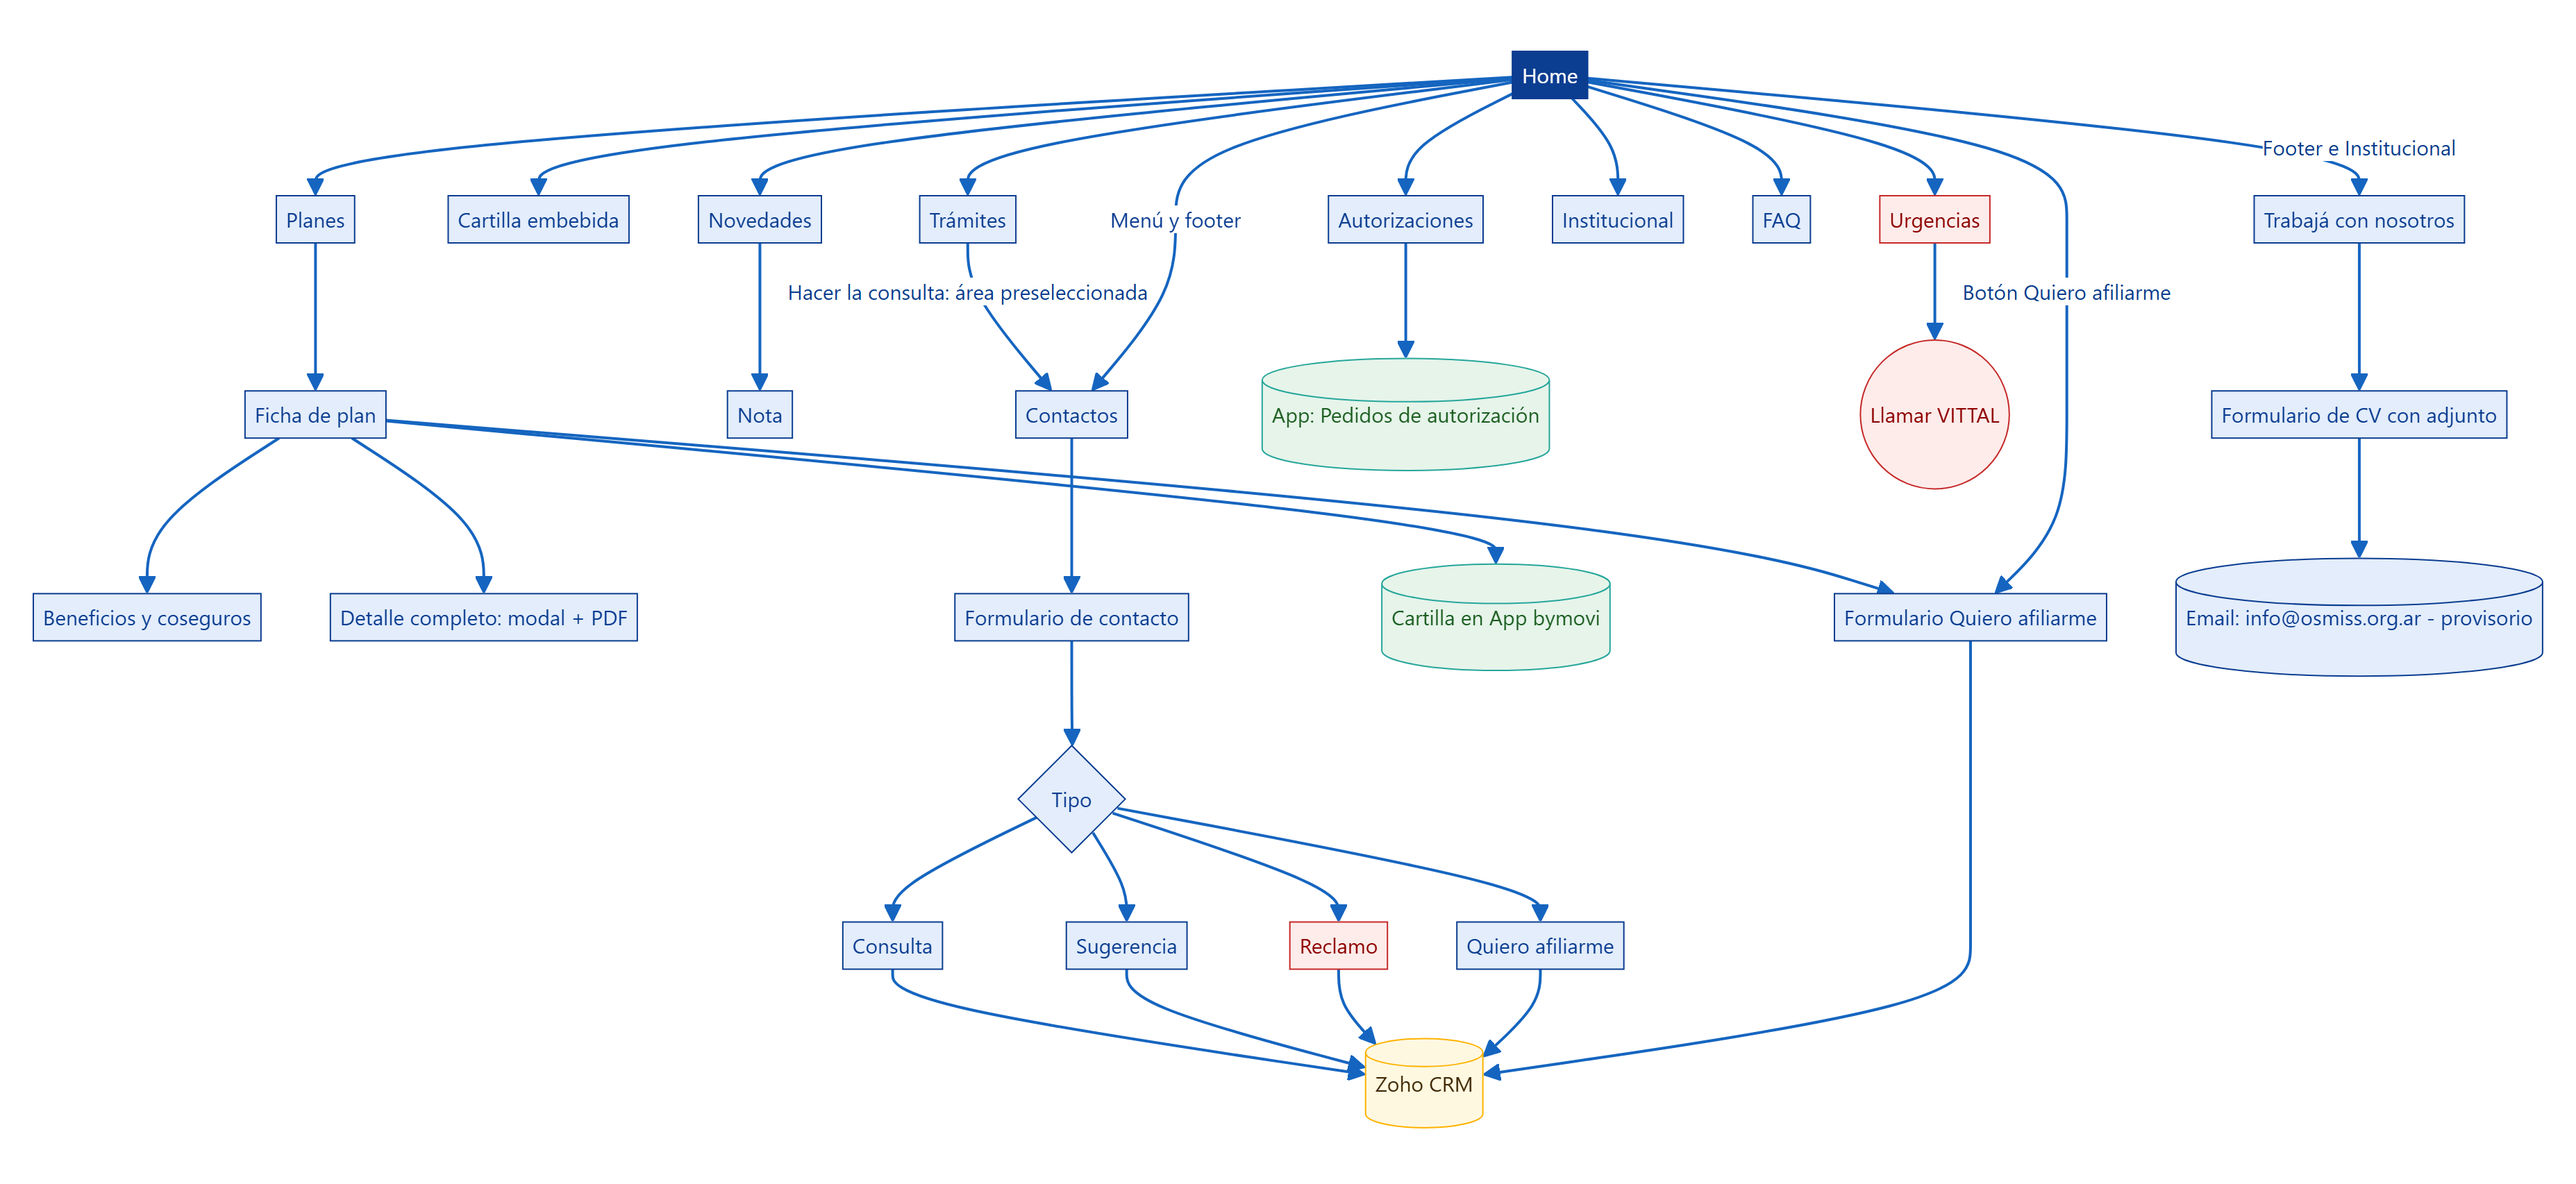
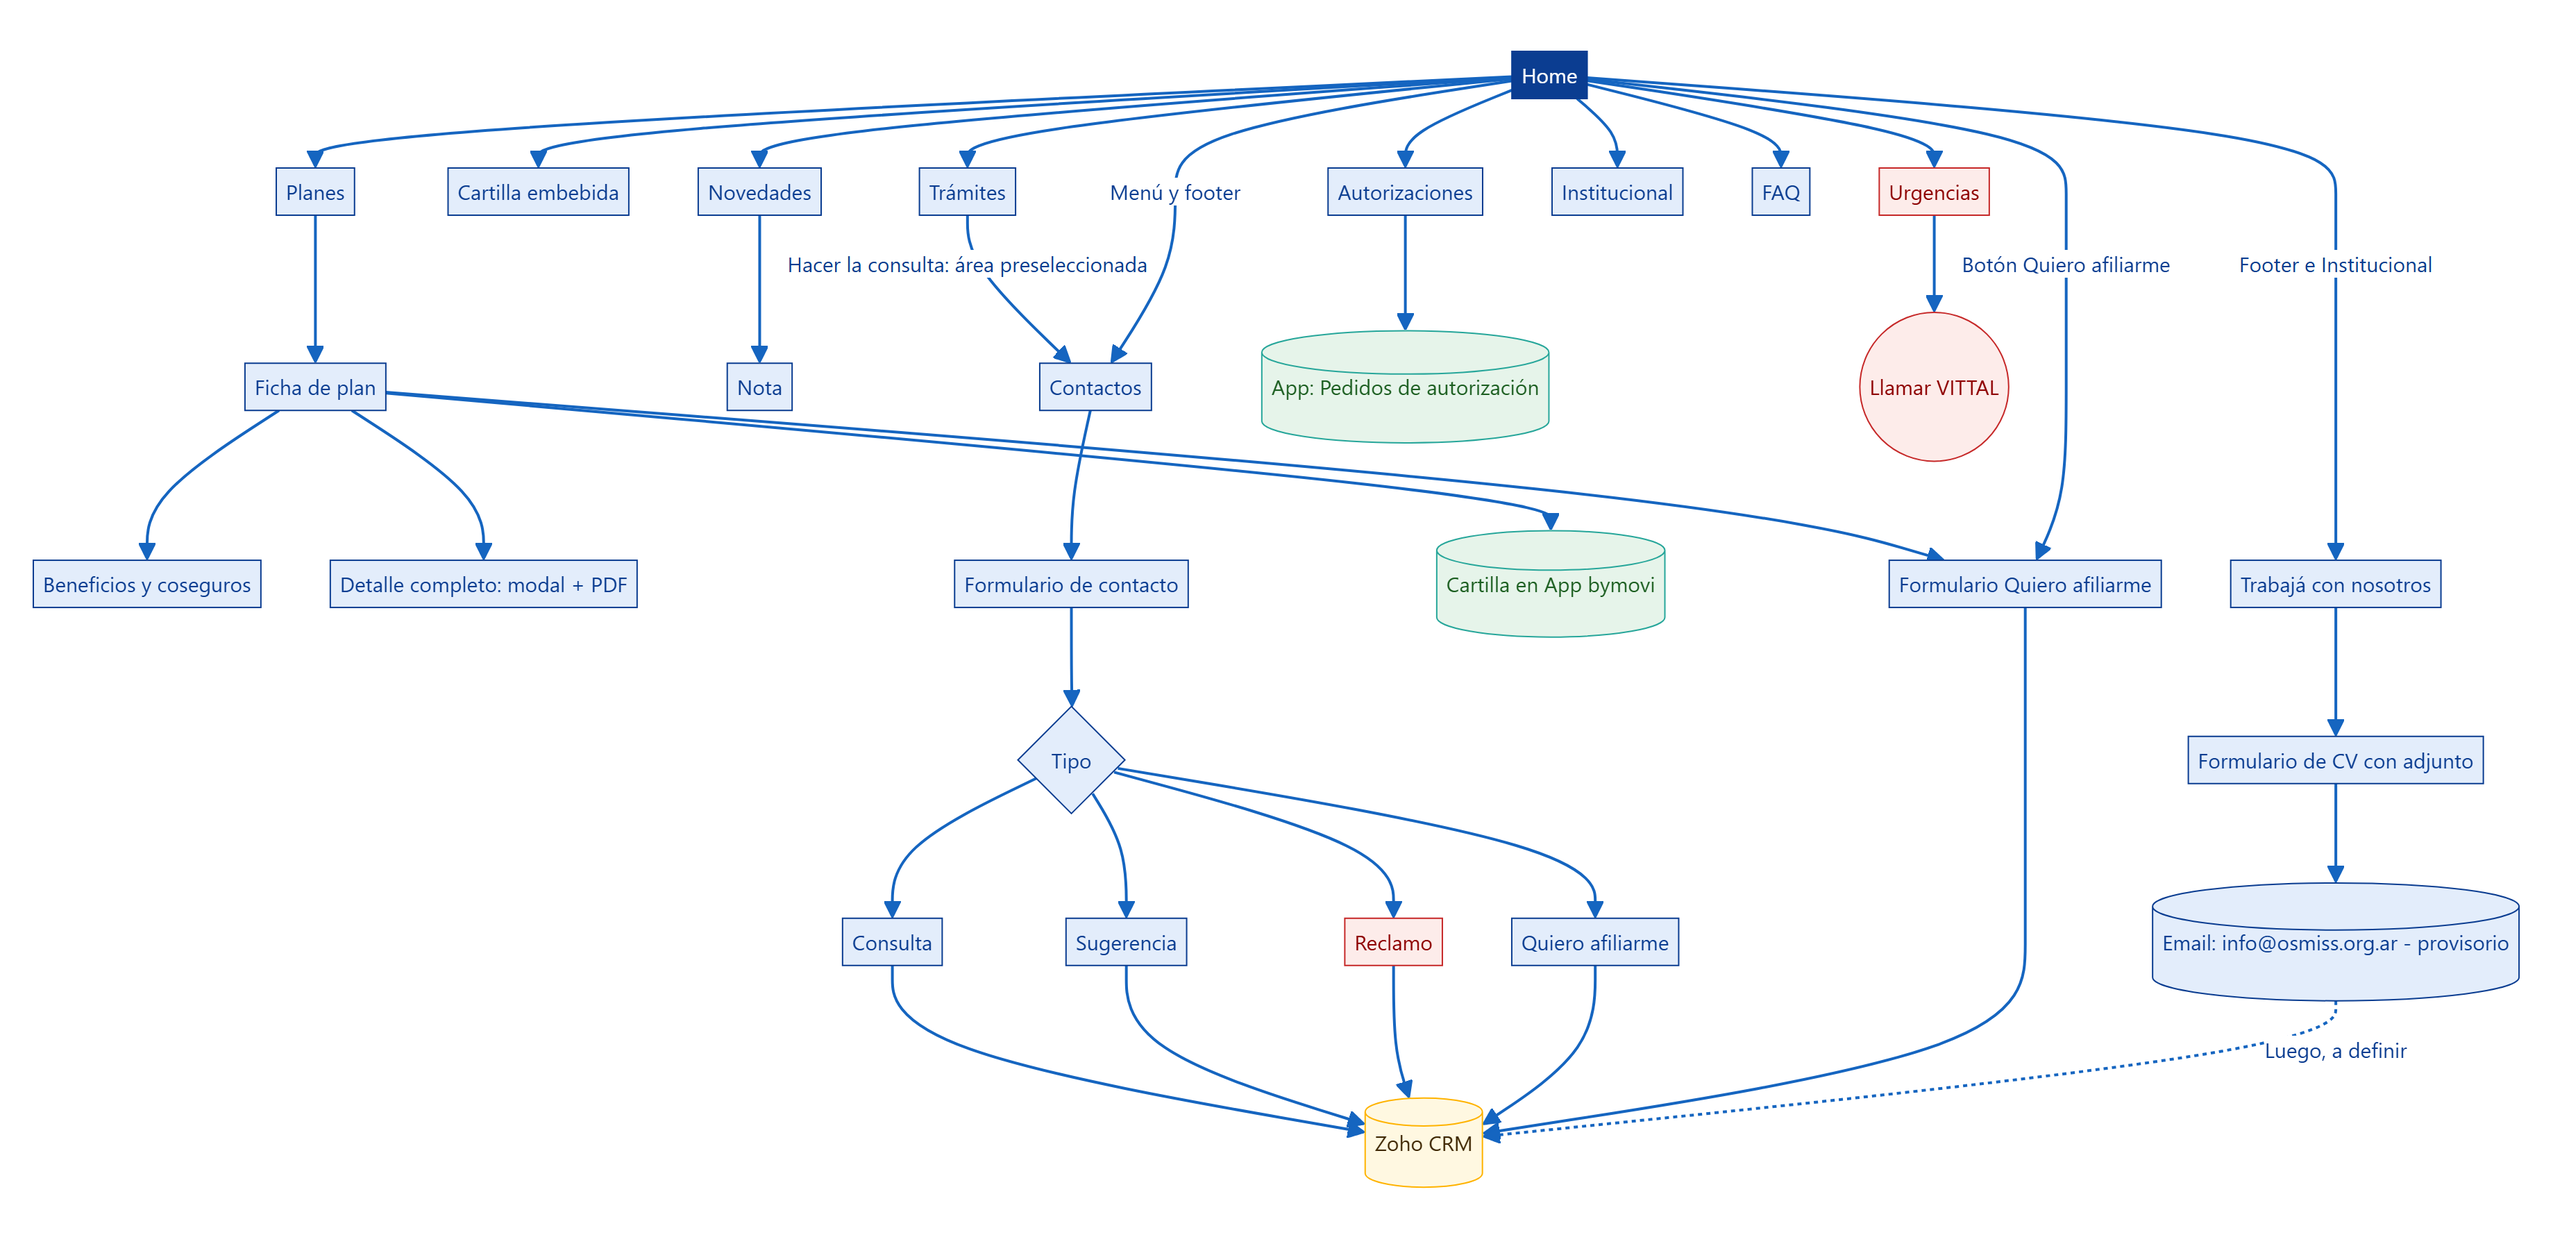
Mapa del sitio: los CV ingresan luego al CRM (a definir)
Recorrido formulario -> email -> Zoho CRM, con el paso al CRM pendiente de
definir (directo desde el formulario o desde el email específico de RRHH).

diff --git a/src/data.js b/src/data.js
@@ -48,6 +48,7 @@ export const DATA = {
     credencialUrl: "https://osmiss-app.bymovi.com/credencial-digital",
     // Trabajá con nosotros (#trabaja-con-nosotros): recepción de CV. El formulario se envía con
     // formulario: "cv", destinatario (email) y el archivo adjunto en el campo "cv" (multipart).
+    // Luego ingresa al CRM (a definir: directo desde el formulario o desde el email específico de RRHH).
     rrhh: {
       email: "info@osmiss.org.ar", // destino PROVISORIO de los CV: OSMISS va a definir un email específico
       maxMb: 5,

diff --git a/MAPA-DEL-SITIO.md b/MAPA-DEL-SITIO.md
@@ -87,6 +87,7 @@ flowchart TD
     H -->|Footer e Institucional| TR[Trabajá con nosotros]
     TR --> CV[Formulario de CV con adjunto]
     CV --> RH[(Email: info@osmiss.org.ar - provisorio)]
+    RH -.->|Luego, a definir| Z
 ```
 
 > Todos los formularios terminan en **Zoho CRM** (y se guardan en el Backoffice). El campo **Tipo** del
@@ -229,8 +230,10 @@ Deben guardarse también en el Backoffice, según la propuesta.
 > El formulario de CV se envía como `multipart/form-data` (por el archivo adjunto) con `formulario: "cv"`
 > y `destinatario: "info@osmiss.org.ar"`. **Los CV deben llegar a info@osmiss.org.ar** (con el archivo adjunto).
 > **Destino provisorio:** OSMISS va a definir un email específico para RRHH; tomarlo de configuración, no fijo en el código.
-> **No forma parte de la integración con Zoho de la propuesta**: el backend debe reenviar cada CV por email
-> a esa casilla (y opcionalmente guardarlo en el Backoffice), respetando la Ley 25.326 de datos personales.
+> **Recorrido previsto:** formulario → email → **ingreso al CRM (a definir)**. Queda por definir si el CV
+> entra a Zoho CRM directamente desde el formulario (como el resto) o a partir del email específico de RRHH.
+> Este flujo no estaba en el alcance de integración con Zoho de la propuesta (afiliación, reclamos y consultas),
+> por lo que hay que confirmarlo con OSMISS y su proveedor de Zoho. Respetar la Ley 25.326 de datos personales.
 > En la página también se ofrece enviarlo directamente a esa dirección (link mailto).
 
 **Envío a Zoho CRM** — cada envío es un JSON con todos los campos del formulario más `formulario`,
@@ -327,6 +330,6 @@ y las descripciones completas en `src/descripciones.js`. Los PDF se generan con 
 
 **Integraciones**
 - **Zoho CRM**: endpoint de la API para los formularios.
-- **CV (Trabajá con nosotros)**: reenvío por email desde el backend, por ahora a info@osmiss.org.ar (**provisorio**, OSMISS definirá un email específico); validar las áreas de interés del formulario.
+- **CV (Trabajá con nosotros)**: reenvío por email desde el backend, por ahora a info@osmiss.org.ar (**provisorio**, OSMISS definirá un email específico) y **luego ingreso al CRM (a definir)**: directo desde el formulario o a partir del email específico. No incluido en el alcance de Zoho de la propuesta. Validar también las áreas de interés del formulario.
 - **bymovi**: la cartilla se embebe por recorte visual (depende de su diseño). Recomendado: pedir a bymovi un modo "embebido" oficial sin menú.
 - **GA4**, sitemap, Open Graph por página y URLs amigables (propuesta, punto 07).
